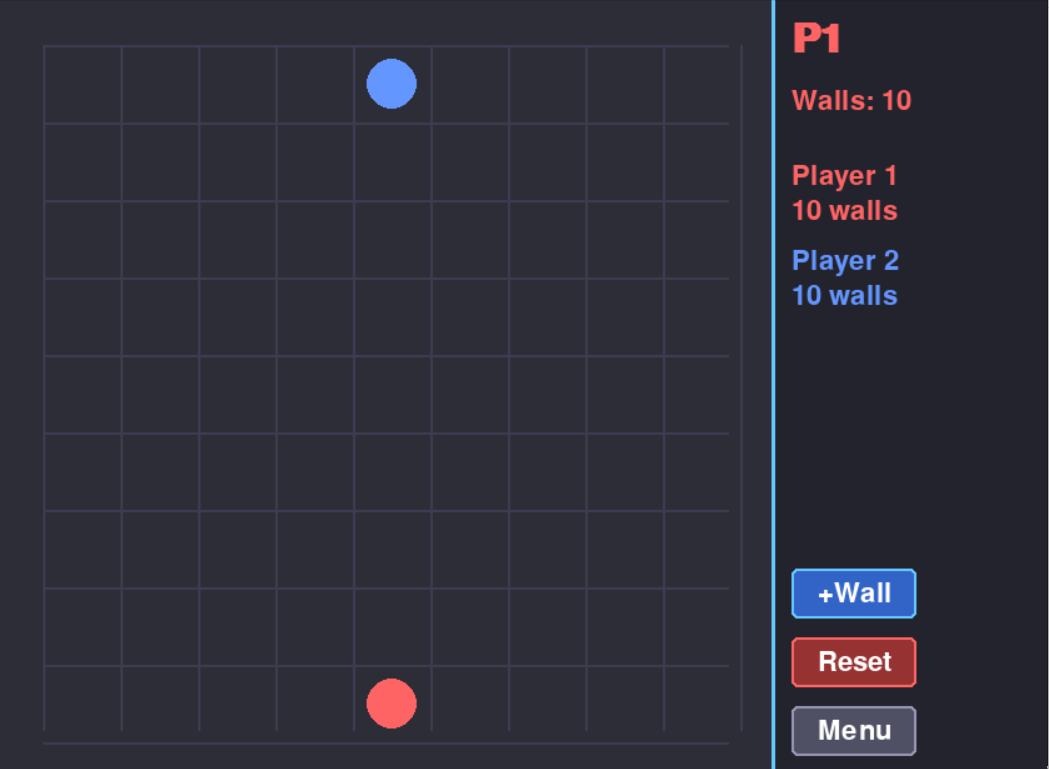
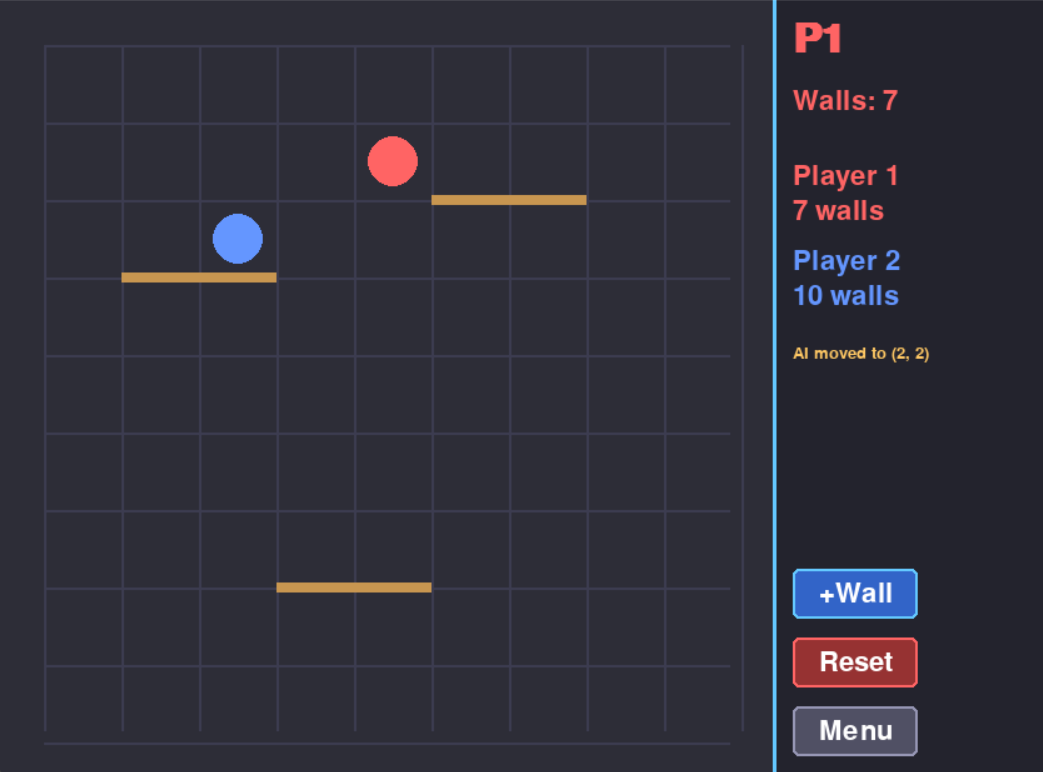
Add UI Screenshots

diff --git a/README.md b/README.md
@@ -34,9 +34,9 @@ Quoridor is an award-winning abstract strategy board game invented by Mirko Marc
 
 ## Screenshots
 
-| Main Menu | Gameplay | AI Match |
-|-----------|----------|----------|
-| ![Menu](Assets/menu.png) | ![Gameplay](Assets/gameplay.png) | ![AI](Assets/aimatch.png) |
+| Main Menu | Gameplay |
+|-----------|----------|
+| ![Menu](Assets/menu.png) | ![Gameplay](Assets/gameplay.png) | 
 
 ---
 
